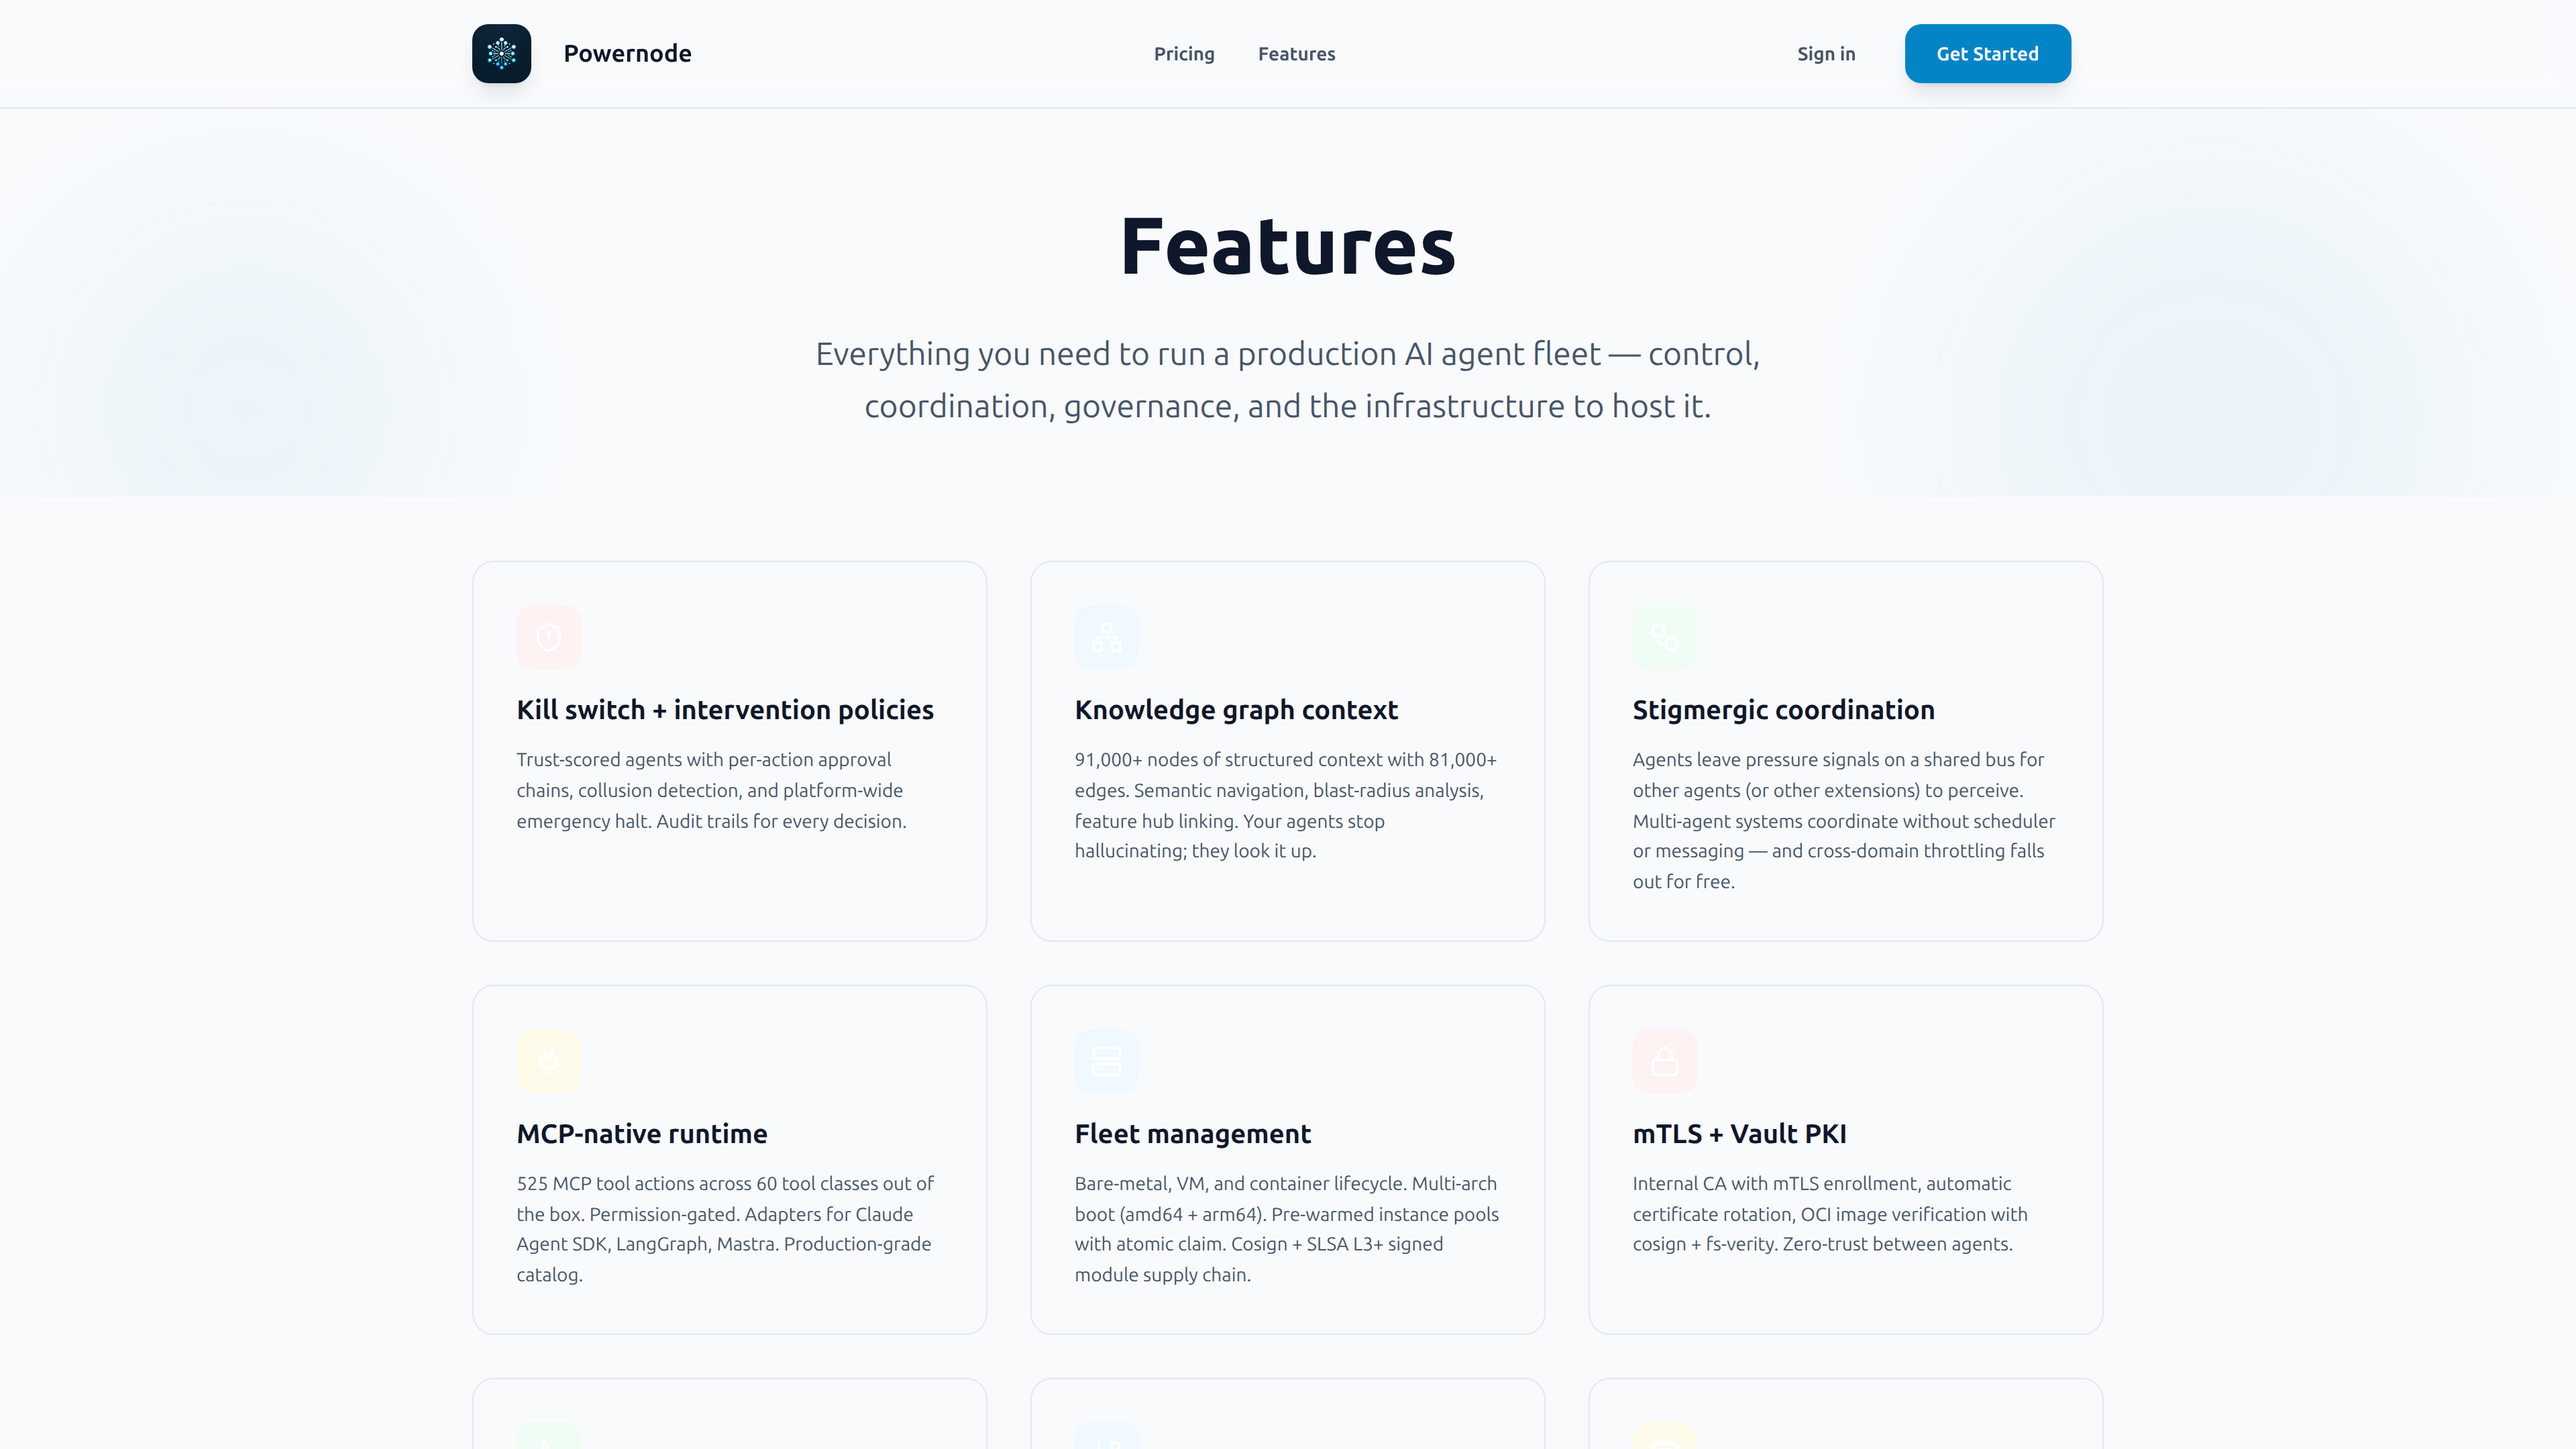
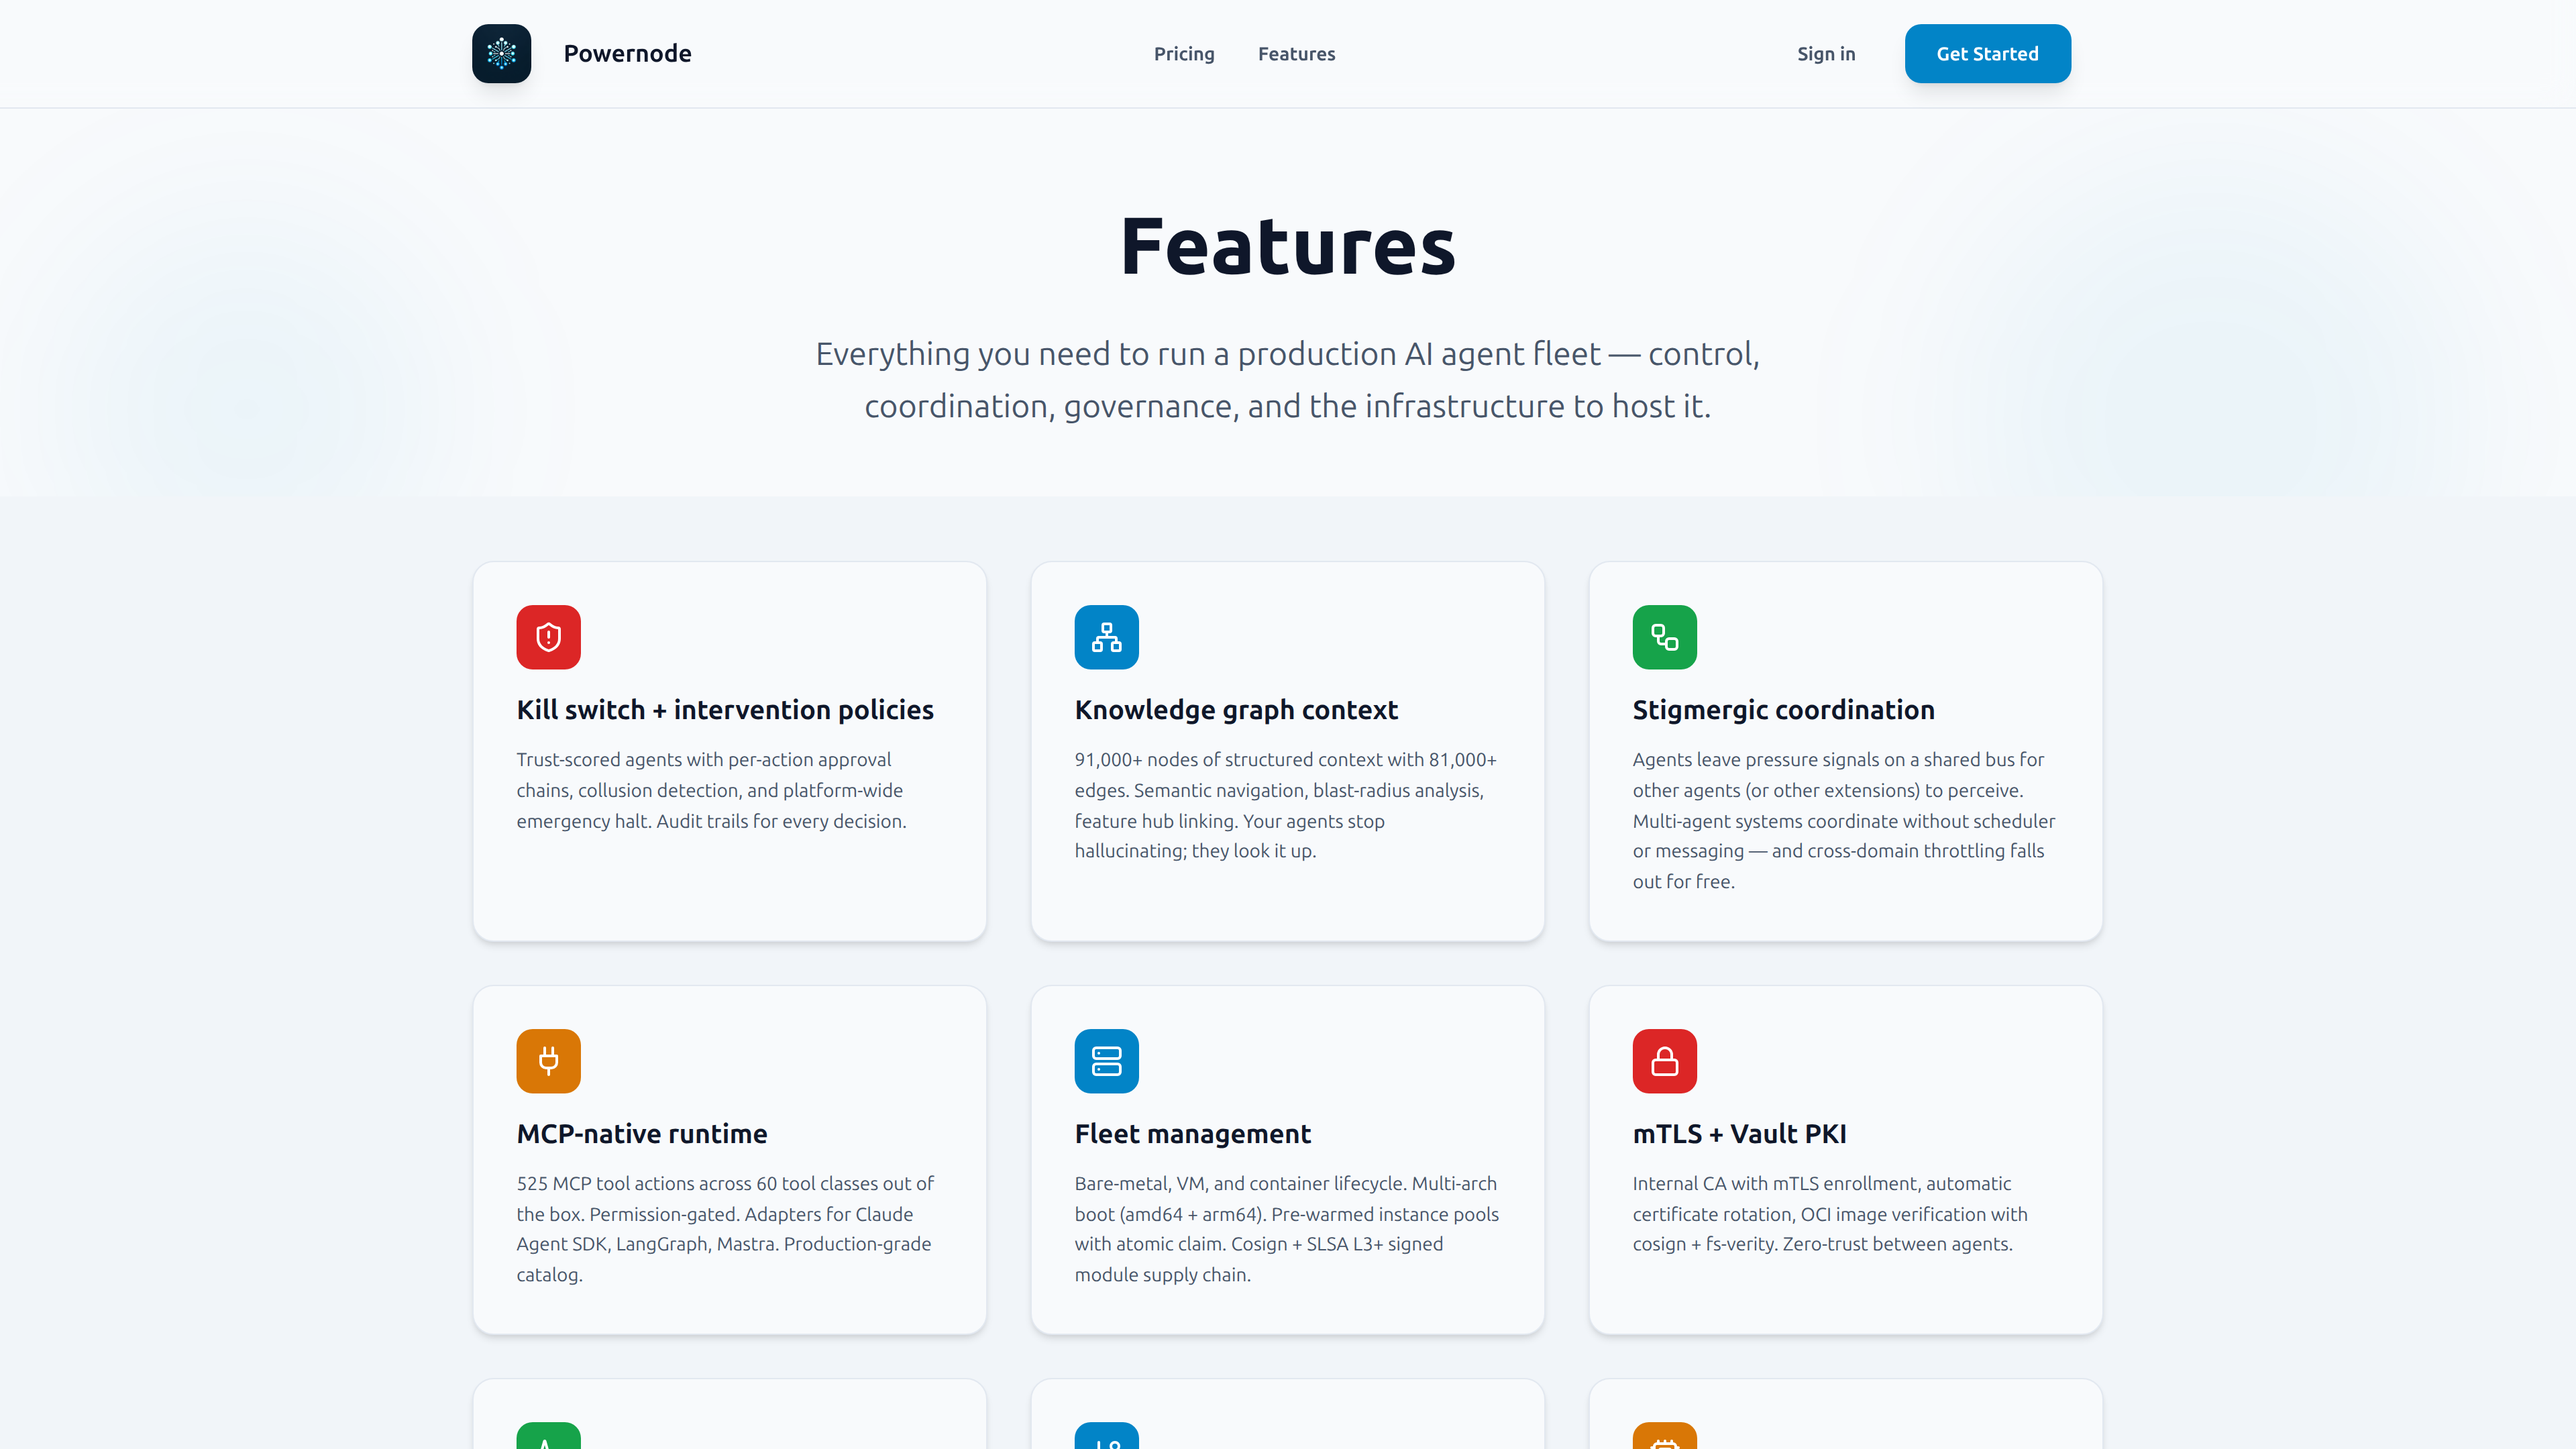
chore(scripts+screenshots): refresh marketing captures + add AI demos
- scripts/capture-marketing-screenshots.js: multi-user login (admin/demo),
  cookie-clear on user switch, SPA-style navigation for marketing pages,
  warm-up + selector wait for /features link before capture
- Recapture marketing-homepage / marketing-features / marketing-pricing
  with the latest visual polish (icon chip contrast, hero gradient fix,
  card backgrounds, /pricing route)
- Recapture fleet-dashboard / template-composer
- Add ai-agents.png + ai-knowledge.png captured against the seeded
  Demo Company account (9 demo agents, 18 PersistentContext entries)

diff --git a/scripts/capture-marketing-screenshots.js b/scripts/capture-marketing-screenshots.js
@@ -28,6 +28,14 @@ const VIEWPORT = { width: 1920, height: 1080 };
 const ADMIN_EMAIL = process.env.POWERNODE_ADMIN_EMAIL || 'admin@powernode.org';
 const ADMIN_PASSWORD = process.env.POWERNODE_ADMIN_PASSWORD || 'Fwhf7j-v5z92HL0OZqPRVq_1';
 
+// Demo Company user — used for KG + AI Agents captures because the dev
+// admin account has trading-extension data that would leak into the
+// public marketing site per feedback_no_private_extension_names_in_public_docs.
+// Demo Company is a clean account seeded by
+// extensions/marketing/server/db/seeds/marketing_demo_data_seed.rb.
+const DEMO_EMAIL = process.env.POWERNODE_DEMO_EMAIL || 'demo@powernode.org';
+const DEMO_PASSWORD = process.env.POWERNODE_DEMO_PASSWORD || 'Fwhf7j-v5z92HL0OZqPRVq_1';
+
 // Marketing pages first (no auth, SPA-navigated — see notes), then
 // operator UX (auth required, full page.goto)
 //
@@ -43,30 +51,44 @@ const CAPTURES = [
   { slug: 'marketing-homepage', url: '/', settle: 3000, spa: true },
   { slug: 'marketing-features', url: '/features', settle: 2000, spa: true },
   { slug: 'marketing-pricing', url: '/pricing', settle: 2000, spa: true },
-  { slug: 'fleet-dashboard', url: '/app/system/fleet', auth: true, settle: 3000 },
-  { slug: 'template-composer', url: '/app/system/templates/compose', auth: true, settle: 3000 },
-  { slug: 'sdwan-overview', url: '/app/system/sdwan', auth: true, settle: 3000 },
-  // NOTE: /app/ai/knowledge and /app/ai/agents intentionally NOT captured
-  // here — the dev DB contains trading-extension data (e.g.
-  // "Trading Session Analyst Experiential Memory", "Daily P&L Coordinator")
-  // that would leak the private trading extension into the public
-  // marketing site. Re-add only after the captures are reviewed for
-  // private-extension leaks per feedback_no_private_extension_names_in_public_docs.
+  { slug: 'fleet-dashboard', url: '/app/system/fleet', auth: 'admin', settle: 3000 },
+  { slug: 'template-composer', url: '/app/system/templates/compose', auth: 'admin', settle: 3000 },
+  { slug: 'sdwan-overview', url: '/app/system/sdwan', auth: 'admin', settle: 3000 },
+  // Demo Company captures (clean account, no trading leak) for the AI
+  // operator UX surfaces. Captured AFTER admin captures since each
+  // login uses the current page context.
+  { slug: 'ai-agents', url: '/app/ai/agents', auth: 'demo', settle: 3000 },
+  { slug: 'ai-knowledge', url: '/app/ai/knowledge', auth: 'demo', settle: 3000 },
 ];
 
-async function login(page) {
-  console.log(`  → logging in as ${ADMIN_EMAIL}`);
+async function login(page, asUser /* 'admin' | 'demo' */) {
+  const creds = asUser === 'demo'
+    ? { email: DEMO_EMAIL, password: DEMO_PASSWORD }
+    : { email: ADMIN_EMAIL, password: ADMIN_PASSWORD };
+  console.log(`  → logging in as ${creds.email}`);
+
+  // First log out to be safe if we're switching users
   await page.goto(`${BASE}/login`);
   await page.waitForLoadState('networkidle', { timeout: 15000 }).catch(() => {});
+
+  // If already logged in, /login may redirect away — go again with explicit logout
+  if (!page.url().includes('/login')) {
+    console.log(`  → already authenticated; clearing session for switch`);
+    await page.context().clearCookies();
+    await page.evaluate(() => {
+      try { localStorage.clear(); sessionStorage.clear(); } catch (_) {}
+    });
+    await page.goto(`${BASE}/login`);
+    await page.waitForLoadState('networkidle', { timeout: 15000 }).catch(() => {});
+  }
 
   const emailSel = 'input[type="email"], input[name="email"]';
   const passSel = 'input[type="password"], input[name="password"]';
   await page.waitForSelector(emailSel, { timeout: 10000 });
-  await page.fill(emailSel, ADMIN_EMAIL);
-  await page.fill(passSel, ADMIN_PASSWORD);
+  await page.fill(emailSel, creds.email);
+  await page.fill(passSel, creds.password);
 
   await page.click('button[type="submit"]');
-  // Wait until we navigate off /login
   await page.waitForFunction(() => !window.location.pathname.startsWith('/login'),
     { timeout: 20000 }).catch(() => {});
   await page.waitForLoadState('networkidle', { timeout: 15000 }).catch(() => {});
@@ -99,14 +121,14 @@ async function login(page) {
     .catch(() => console.log('  (warm-up: marketing link not detected — proceeding anyway)'));
   await page.waitForTimeout(2000);
 
-  let authed = false;
+  let currentUser = null;
   const results = [];
 
   for (const c of CAPTURES) {
     try {
-      if (c.auth && !authed) {
-        await login(page);
-        authed = true;
+      if (c.auth && c.auth !== currentUser) {
+        await login(page, c.auth);
+        currentUser = c.auth;
       }
 
       const target = `${BASE}${c.url}`;
